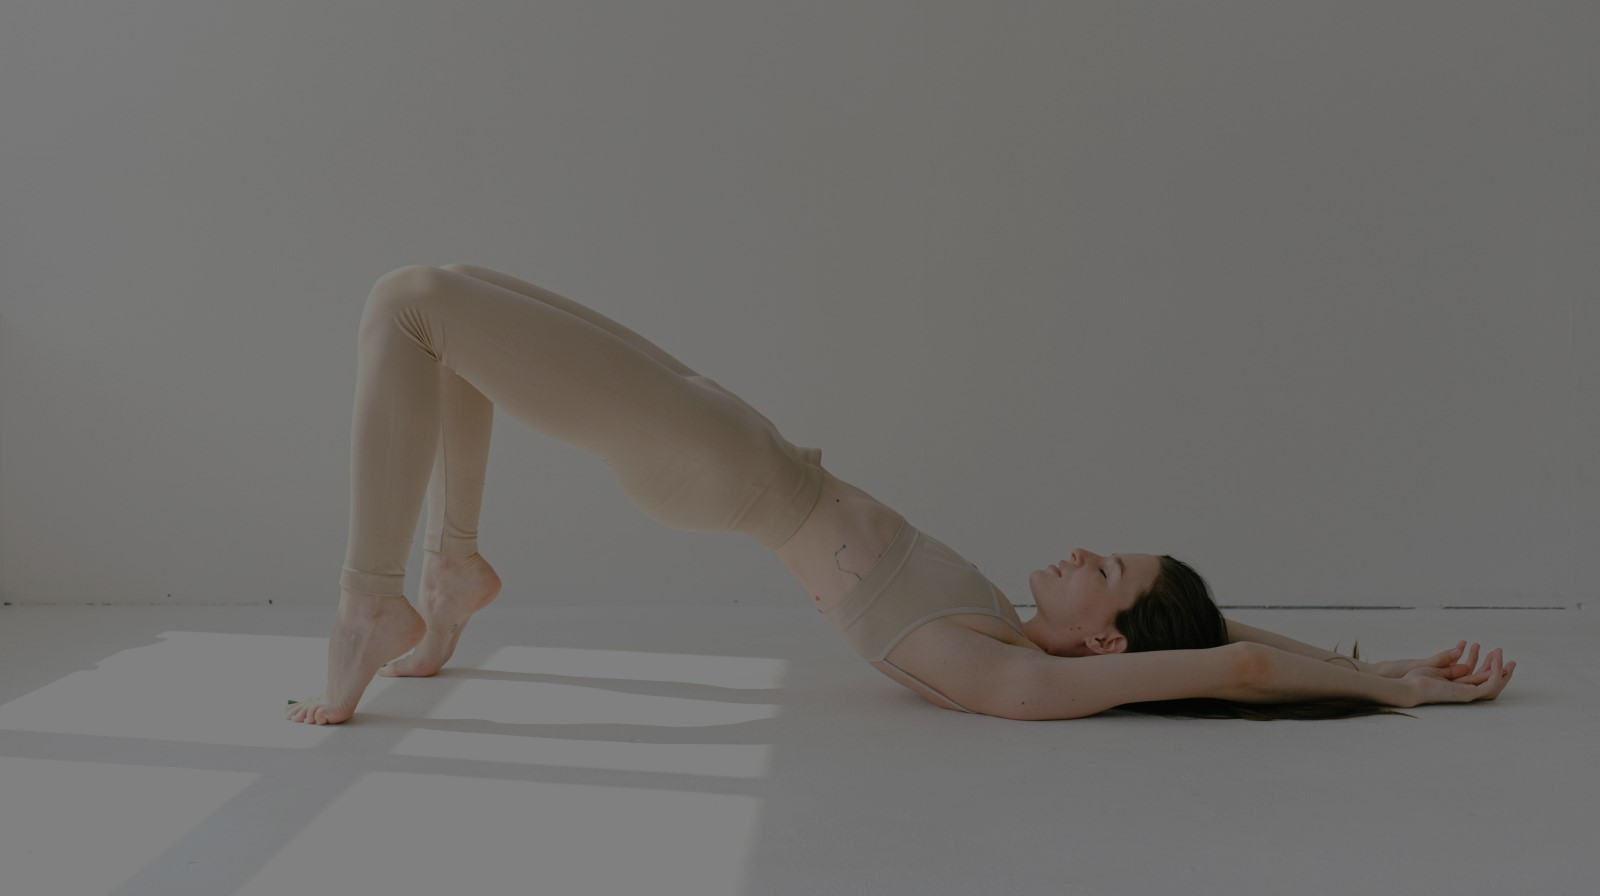
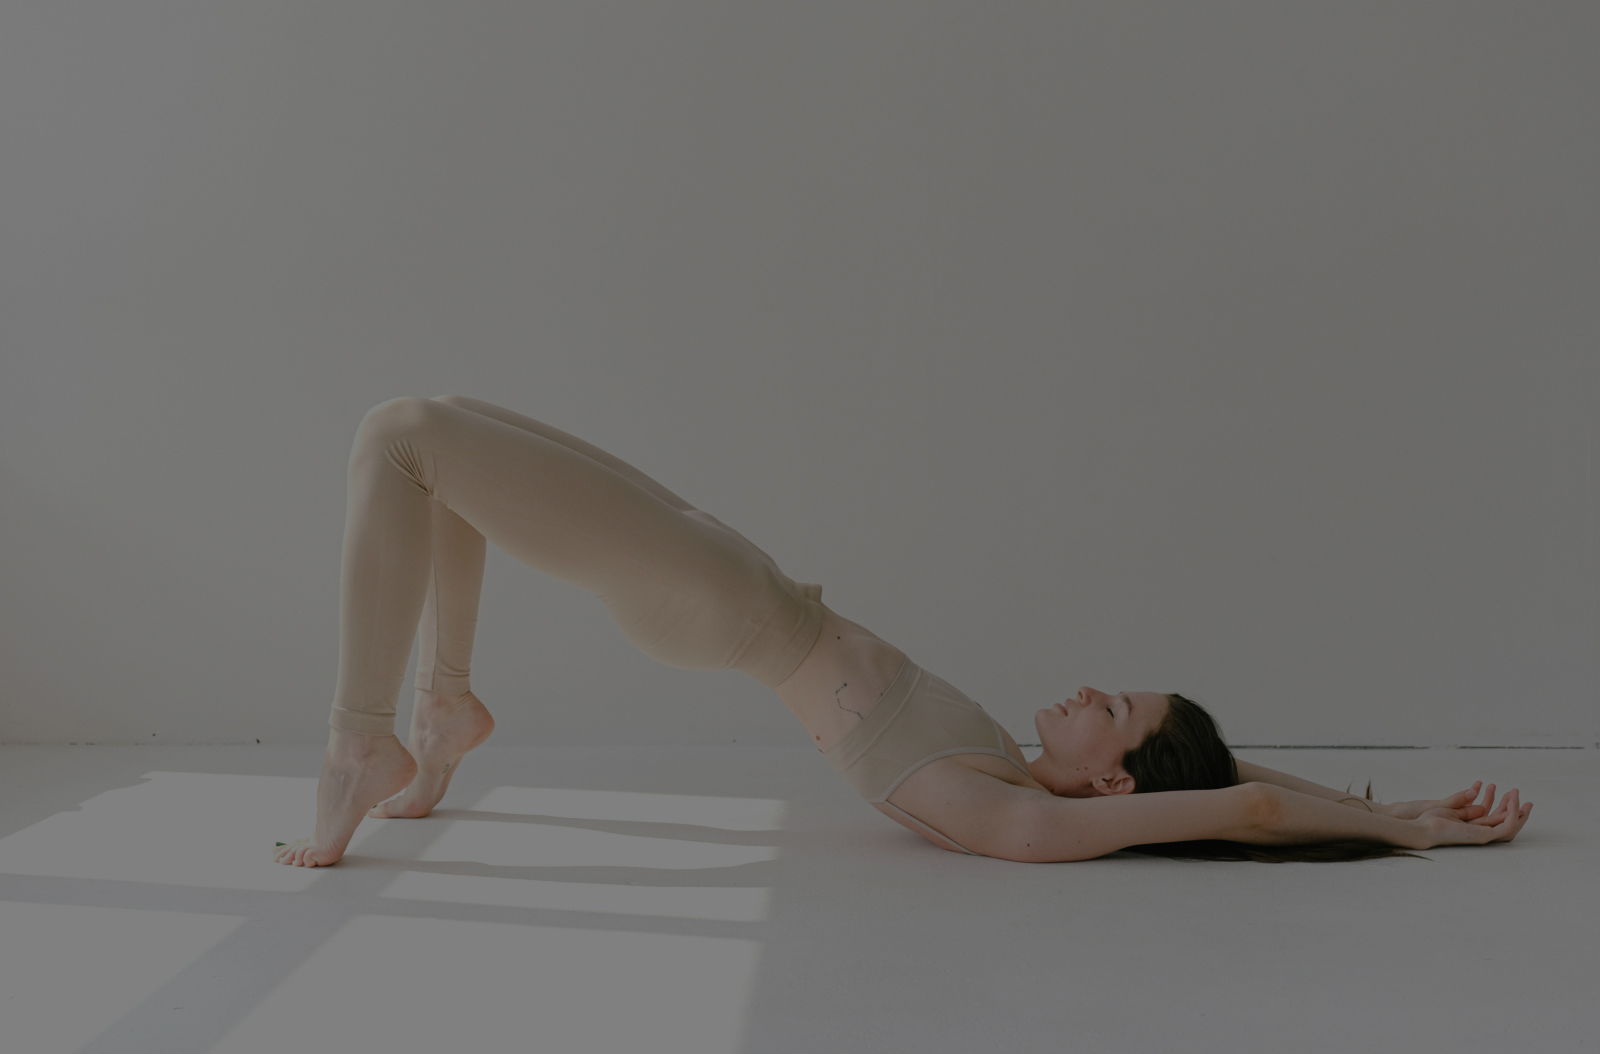
fixed history

diff --git a/client/InnerVisual/src/components/history/History.jsx b/client/InnerVisual/src/components/history/History.jsx
@@ -1,8 +1,8 @@
 import React from 'react';
 import './history.css'
 import Carousel from 'react-bootstrap/Carousel';
-import history from '../../assets/img/history.jpg'
-import history2 from '../../assets/img/history2.png';
+import history from '../../assets/img/history1.jpg'
+import history2 from '../../assets/img/history2.jpg';
 import history3 from '../../assets/img/history3.jpg';
 
 const History = () => {
@@ -11,32 +11,21 @@ const History = () => {
     <section className='componenthistory'>
       <Carousel>
       <Carousel.Item>
-        <img className='history' src={history} alt='Deportista haciendo plancha lateral' />
-        {/* <ExampleCarouselImage text="First slide" /> */}
+        <img className='history1' src={history} alt='Deportista haciendo plancha lateral' />
         <Carousel.Caption>
-          <h2 className='caption-title1'>Breve</h2>
-          <h3 className='caption-title2'>Historia</h3>
-          {/* <p>Nulla vitae elit libero, a pharetra augue mollis interdum.</p> */}
+          <h2 className='caption-title'>BREVE HISTORIA</h2>
         </Carousel.Caption>
       </Carousel.Item>
       <Carousel.Item>
-        <img className='history3' src={history2} alt='Nadador' />
-        {/* <ExampleCarouselImage text="Second slide" /> */}
+        <img className='history2' src={history2} alt='Nadador' />
         <Carousel.Caption>
-          <h2 className='caption-title1'>Tratamiento</h2>
-          <h3 className='caption-title2'>Individual</h3>
-          {/* <p>Lorem ipsum dolor sit amet, consectetur adipiscing elit.</p> */}
+          <h2 className='caption-title'>TRATAMIENTO INDIVIDUAL</h2>
         </Carousel.Caption>
       </Carousel.Item>
       <Carousel.Item>
-        <img className='history2' src={history3} alt='Hombre haciendo Motocross' />
-        {/* <ExampleCarouselImage text="Third slide" /> */}
+        <img className='history3' src={history3} alt='Hombre haciendo Motocross' />
         <Carousel.Caption>
-          <h2 className='caption-title3'>Si quieres cambiar</h2>
-          <h3 className='caption-title4'>hazlo desde dentro</h3>
-          {/* <p>
-            Praesent commodo cursus magna, vel scelerisque nisl consectetur.
-          </p> */}
+          <h2 className='caption-title'>SI QUIERES CAMBIAR HAZLO DESDE DENTRO</h2>
         </Carousel.Caption>
       </Carousel.Item>
     </Carousel>

diff --git a/client/InnerVisual/src/components/history/history.css b/client/InnerVisual/src/components/history/history.css
@@ -1,4 +1,24 @@
 .componenthistory {
+    margin-top: -140px;
+}
+.caption-title {
+    text-align: center;  
+}
+
+@media screen and (max-width: 768px) {
+    .history1,
+    .history2,
+    .history3 {
+        height: 600px;
+        width:auto;
+        object-fit: cover;
+    }
+
+    .caption-title {
+        text-align: right;  
+    }
+}
+/* .componenthistory {
     margin-top: -340px;
     margin-bottom: -10px; 
     padding-top: 140px;
@@ -12,7 +32,7 @@
     background-size: cover;
     height: 600px; 
     display: flex;
-    /* flex-direction: column; */
+    /* flex-direction: column; 
     justify-content: end;
     align-items:flex-start;
     color: white;
@@ -25,7 +45,7 @@
 .history2 img,
 .history3 img{ */
 
-/* } */
+/* } 
 
 .caption-title1{
     font-size: 150px;
@@ -34,7 +54,7 @@
     position: absolute;
     right: 0;
     top:-700px;
-    /* transform: translateY(-50%); */
+    /* transform: translateY(-50%); 
     margin-right: 10px;
 }
 
@@ -43,8 +63,6 @@
     position: absolute;
     right: 0;
     top: -500px;
-    /* transform: translateY(-50%); */
-    /* margin-left: 100px; */
     margin-right: 5px;
     font-size: 150px;
     font-weight: 600;
@@ -59,7 +77,7 @@
     position: absolute;
     left: 0;
     top:-900px;
-    /* transform: translateY(-50%); */
+    /* transform: translateY(-50%); 
     margin-left: 0px;
 }
 
@@ -68,11 +86,9 @@
     position: absolute;
     left: 0;
     top: -600px;
-    /* transform: translateY(-50%); */
-    /* margin-left: 100px; */
     margin-left: 0px;
     font-size: 150px;
     font-weight: 600;
     color: var(--orange);
     margin-bottom: 20px;
-}
+} */
